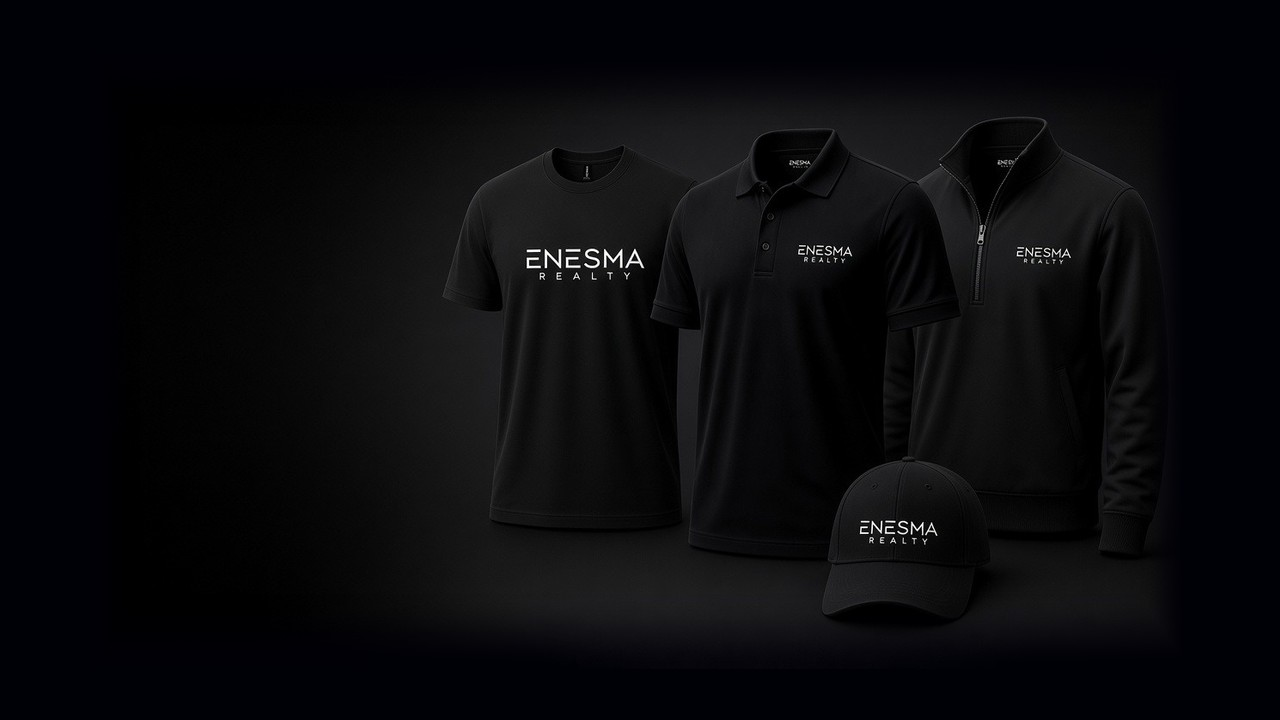
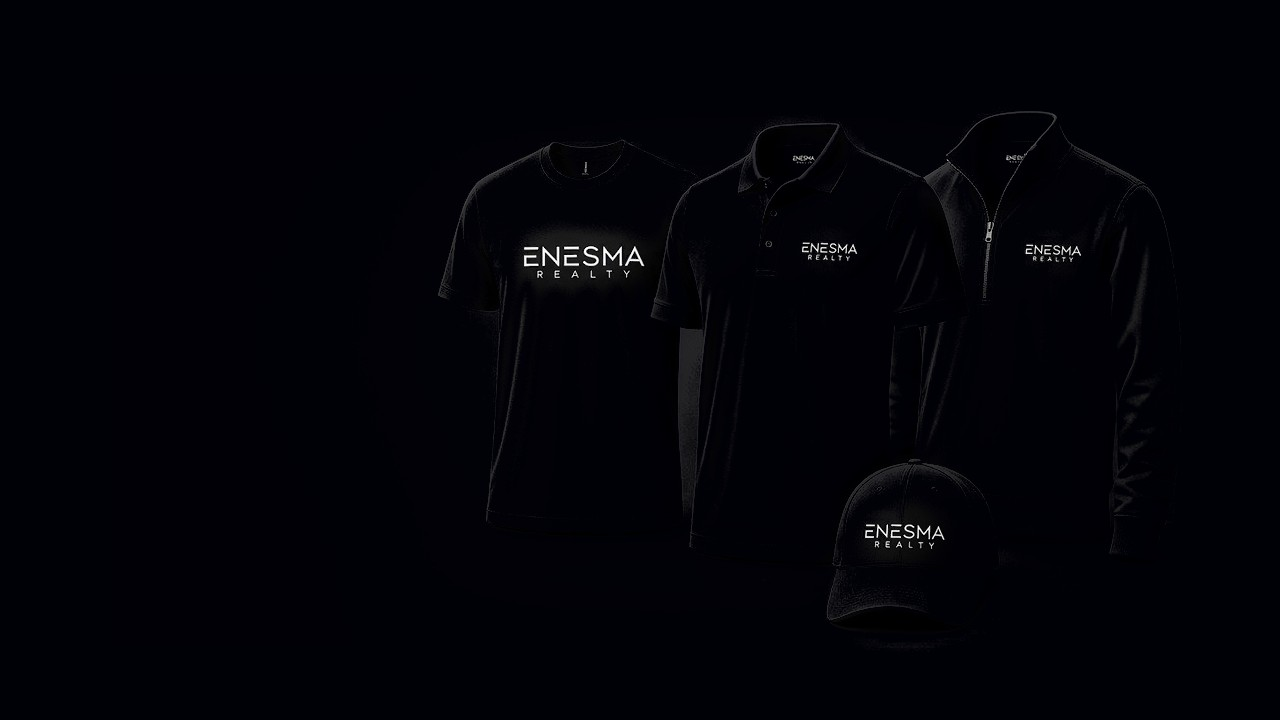
Blend the Gear and Cards photos into the black tiles (#22)
* Give the home tile photos room and blend their edges into the tile.

Inset each Gear, Signs, and Cards photo on black and fade only the dark edges, so the products stay whole and the photo no longer reads as a lighter box.

* Pull the Gear and Cards studio floor into the black tile.

The gray bands were the photo floor, not a CSS gap. The floor now fades to the tile color, and the signs stay inset so the For Sale panel is not on the edge.

---------

diff --git a/index.html b/index.html
@@ -8,7 +8,7 @@
 (function () {
   var path = location.pathname, marker = '/enesma-shop/', i = path.indexOf(marker);
   window.SHOP_BASE = i >= 0 ? path.slice(0, i + marker.length) : '/';
-  var v = '20261120t';
+  var v = '20261120u';
   var b = window.SHOP_BASE;
   document.write('<base href="' + b + '">');
   document.write('<link rel="stylesheet" href="' + b + 'css/shop.css?v=' + v + '">');
@@ -34,13 +34,13 @@
 <body data-page="home">
 <div id="app"></div>
 <script>
-document.write('<script src="' + window.SHOP_BASE + 'js/config.js?v=20261120t"><\/script>');
-document.write('<script src="' + window.SHOP_BASE + 'js/catalog.js?v=20261120t"><\/script>');
-document.write('<script src="' + window.SHOP_BASE + 'js/cart.js?v=20261120t"><\/script>');
-document.write('<script src="' + window.SHOP_BASE + 'js/api.js?v=20261120t"><\/script>');
-document.write('<script src="' + window.SHOP_BASE + 'js/ui.js?v=20261120t"><\/script>');
-document.write('<script src="' + window.SHOP_BASE + 'js/main.js?v=20261120t"><\/script>');
-if (window.__ESHOP_INTRO) document.write('<script src="' + window.SHOP_BASE + 'js/intro.js?v=20261120t-white"><\/script>');
+document.write('<script src="' + window.SHOP_BASE + 'js/config.js?v=20261120u"><\/script>');
+document.write('<script src="' + window.SHOP_BASE + 'js/catalog.js?v=20261120u"><\/script>');
+document.write('<script src="' + window.SHOP_BASE + 'js/cart.js?v=20261120u"><\/script>');
+document.write('<script src="' + window.SHOP_BASE + 'js/api.js?v=20261120u"><\/script>');
+document.write('<script src="' + window.SHOP_BASE + 'js/ui.js?v=20261120u"><\/script>');
+document.write('<script src="' + window.SHOP_BASE + 'js/main.js?v=20261120u"><\/script>');
+if (window.__ESHOP_INTRO) document.write('<script src="' + window.SHOP_BASE + 'js/intro.js?v=20261120u-white"><\/script>');
 </script>
 </body>
 </html>

diff --git a/cards/index.html b/cards/index.html
@@ -8,7 +8,7 @@
 (function () {
   var path = location.pathname, marker = '/enesma-shop/', i = path.indexOf(marker);
   window.SHOP_BASE = i >= 0 ? path.slice(0, i + marker.length) : '/';
-  var v = '20261120t';
+  var v = '20261120u';
   var b = window.SHOP_BASE;
   document.write('<base href="' + b + '">');
   document.write('<link rel="stylesheet" href="' + b + 'css/shop.css?v=' + v + '">');
@@ -23,12 +23,12 @@
 <body data-page="category" data-category="cards" data-title="Cards" data-lede="Business cards, printed with your photo and contact details.">
 <div id="app"></div>
 <script>
-document.write('<script src="' + window.SHOP_BASE + 'js/config.js?v=20261120t"><\/script>');
-document.write('<script src="' + window.SHOP_BASE + 'js/catalog.js?v=20261120t"><\/script>');
-document.write('<script src="' + window.SHOP_BASE + 'js/cart.js?v=20261120t"><\/script>');
-document.write('<script src="' + window.SHOP_BASE + 'js/api.js?v=20261120t"><\/script>');
-document.write('<script src="' + window.SHOP_BASE + 'js/ui.js?v=20261120t"><\/script>');
-document.write('<script src="' + window.SHOP_BASE + 'js/main.js?v=20261120t"><\/script>');
+document.write('<script src="' + window.SHOP_BASE + 'js/config.js?v=20261120u"><\/script>');
+document.write('<script src="' + window.SHOP_BASE + 'js/catalog.js?v=20261120u"><\/script>');
+document.write('<script src="' + window.SHOP_BASE + 'js/cart.js?v=20261120u"><\/script>');
+document.write('<script src="' + window.SHOP_BASE + 'js/api.js?v=20261120u"><\/script>');
+document.write('<script src="' + window.SHOP_BASE + 'js/ui.js?v=20261120u"><\/script>');
+document.write('<script src="' + window.SHOP_BASE + 'js/main.js?v=20261120u"><\/script>');
 </script>
 </body>
 </html>

diff --git a/signs/index.html b/signs/index.html
@@ -8,7 +8,7 @@
 (function () {
   var path = location.pathname, marker = '/enesma-shop/', i = path.indexOf(marker);
   window.SHOP_BASE = i >= 0 ? path.slice(0, i + marker.length) : '/';
-  var v = '20261120t';
+  var v = '20261120u';
   var b = window.SHOP_BASE;
   document.write('<base href="' + b + '">');
   document.write('<link rel="stylesheet" href="' + b + 'css/shop.css?v=' + v + '">');
@@ -23,12 +23,12 @@
 <body data-page="category" data-category="signs" data-title="Signs" data-lede="For sale signs and open house signs, in White or Black.">
 <div id="app"></div>
 <script>
-document.write('<script src="' + window.SHOP_BASE + 'js/config.js?v=20261120t"><\/script>');
-document.write('<script src="' + window.SHOP_BASE + 'js/catalog.js?v=20261120t"><\/script>');
-document.write('<script src="' + window.SHOP_BASE + 'js/cart.js?v=20261120t"><\/script>');
-document.write('<script src="' + window.SHOP_BASE + 'js/api.js?v=20261120t"><\/script>');
-document.write('<script src="' + window.SHOP_BASE + 'js/ui.js?v=20261120t"><\/script>');
-document.write('<script src="' + window.SHOP_BASE + 'js/main.js?v=20261120t"><\/script>');
+document.write('<script src="' + window.SHOP_BASE + 'js/config.js?v=20261120u"><\/script>');
+document.write('<script src="' + window.SHOP_BASE + 'js/catalog.js?v=20261120u"><\/script>');
+document.write('<script src="' + window.SHOP_BASE + 'js/cart.js?v=20261120u"><\/script>');
+document.write('<script src="' + window.SHOP_BASE + 'js/api.js?v=20261120u"><\/script>');
+document.write('<script src="' + window.SHOP_BASE + 'js/ui.js?v=20261120u"><\/script>');
+document.write('<script src="' + window.SHOP_BASE + 'js/main.js?v=20261120u"><\/script>');
 </script>
 </body>
 </html>

diff --git a/gear/index.html b/gear/index.html
@@ -8,7 +8,7 @@
 (function () {
   var path = location.pathname, marker = '/enesma-shop/', i = path.indexOf(marker);
   window.SHOP_BASE = i >= 0 ? path.slice(0, i + marker.length) : '/';
-  var v = '20261120t';
+  var v = '20261120u';
   var b = window.SHOP_BASE;
   document.write('<base href="' + b + '">');
   document.write('<link rel="stylesheet" href="' + b + 'css/shop.css?v=' + v + '">');
@@ -25,12 +25,12 @@ document.write('<script type="importmap">'+JSON.stringify({imports:{"three":wind
 <body data-page="closet">
 <div id="app"></div>
 <script>
-document.write('<script src="' + window.SHOP_BASE + 'js/config.js?v=20261120t"><\/script>');
-document.write('<script src="' + window.SHOP_BASE + 'js/catalog.js?v=20261120t"><\/script>');
-document.write('<script src="' + window.SHOP_BASE + 'js/cart.js?v=20261120t"><\/script>');
-document.write('<script src="' + window.SHOP_BASE + 'js/api.js?v=20261120t"><\/script>');
-document.write('<script src="' + window.SHOP_BASE + 'js/ui.js?v=20261120t"><\/script>');
-document.write('<script src="' + window.SHOP_BASE + 'js/main.js?v=20261120t"><\/script>');
+document.write('<script src="' + window.SHOP_BASE + 'js/config.js?v=20261120u"><\/script>');
+document.write('<script src="' + window.SHOP_BASE + 'js/catalog.js?v=20261120u"><\/script>');
+document.write('<script src="' + window.SHOP_BASE + 'js/cart.js?v=20261120u"><\/script>');
+document.write('<script src="' + window.SHOP_BASE + 'js/api.js?v=20261120u"><\/script>');
+document.write('<script src="' + window.SHOP_BASE + 'js/ui.js?v=20261120u"><\/script>');
+document.write('<script src="' + window.SHOP_BASE + 'js/main.js?v=20261120u"><\/script>');
 </script>
 </body>
 </html>

diff --git a/signs/for-sale-aluminum/index.html b/signs/for-sale-aluminum/index.html
@@ -8,7 +8,7 @@
 (function () {
   var path = location.pathname, marker = '/enesma-shop/', i = path.indexOf(marker);
   window.SHOP_BASE = i >= 0 ? path.slice(0, i + marker.length) : '/';
-  var v = '20261120t';
+  var v = '20261120u';
   var b = window.SHOP_BASE;
   document.write('<base href="' + b + '">');
   document.write('<link rel="stylesheet" href="' + b + 'css/shop.css?v=' + v + '">');
@@ -23,12 +23,12 @@
 <body data-page="product" data-sku="for-sale-aluminum">
 <div id="app"></div>
 <script>
-document.write('<script src="' + window.SHOP_BASE + 'js/config.js?v=20261120t"><\/script>');
-document.write('<script src="' + window.SHOP_BASE + 'js/catalog.js?v=20261120t"><\/script>');
-document.write('<script src="' + window.SHOP_BASE + 'js/cart.js?v=20261120t"><\/script>');
-document.write('<script src="' + window.SHOP_BASE + 'js/api.js?v=20261120t"><\/script>');
-document.write('<script src="' + window.SHOP_BASE + 'js/ui.js?v=20261120t"><\/script>');
-document.write('<script src="' + window.SHOP_BASE + 'js/main.js?v=20261120t"><\/script>');
+document.write('<script src="' + window.SHOP_BASE + 'js/config.js?v=20261120u"><\/script>');
+document.write('<script src="' + window.SHOP_BASE + 'js/catalog.js?v=20261120u"><\/script>');
+document.write('<script src="' + window.SHOP_BASE + 'js/cart.js?v=20261120u"><\/script>');
+document.write('<script src="' + window.SHOP_BASE + 'js/api.js?v=20261120u"><\/script>');
+document.write('<script src="' + window.SHOP_BASE + 'js/ui.js?v=20261120u"><\/script>');
+document.write('<script src="' + window.SHOP_BASE + 'js/main.js?v=20261120u"><\/script>');
 </script>
 </body>
 </html>

diff --git a/signs/for-sale-plastic/index.html b/signs/for-sale-plastic/index.html
@@ -8,7 +8,7 @@
 (function () {
   var path = location.pathname, marker = '/enesma-shop/', i = path.indexOf(marker);
   window.SHOP_BASE = i >= 0 ? path.slice(0, i + marker.length) : '/';
-  var v = '20261120t';
+  var v = '20261120u';
   var b = window.SHOP_BASE;
   document.write('<base href="' + b + '">');
   document.write('<link rel="stylesheet" href="' + b + 'css/shop.css?v=' + v + '">');
@@ -23,12 +23,12 @@
 <body data-page="product" data-sku="for-sale-plastic">
 <div id="app"></div>
 <script>
-document.write('<script src="' + window.SHOP_BASE + 'js/config.js?v=20261120t"><\/script>');
-document.write('<script src="' + window.SHOP_BASE + 'js/catalog.js?v=20261120t"><\/script>');
-document.write('<script src="' + window.SHOP_BASE + 'js/cart.js?v=20261120t"><\/script>');
-document.write('<script src="' + window.SHOP_BASE + 'js/api.js?v=20261120t"><\/script>');
-document.write('<script src="' + window.SHOP_BASE + 'js/ui.js?v=20261120t"><\/script>');
-document.write('<script src="' + window.SHOP_BASE + 'js/main.js?v=20261120t"><\/script>');
+document.write('<script src="' + window.SHOP_BASE + 'js/config.js?v=20261120u"><\/script>');
+document.write('<script src="' + window.SHOP_BASE + 'js/catalog.js?v=20261120u"><\/script>');
+document.write('<script src="' + window.SHOP_BASE + 'js/cart.js?v=20261120u"><\/script>');
+document.write('<script src="' + window.SHOP_BASE + 'js/api.js?v=20261120u"><\/script>');
+document.write('<script src="' + window.SHOP_BASE + 'js/ui.js?v=20261120u"><\/script>');
+document.write('<script src="' + window.SHOP_BASE + 'js/main.js?v=20261120u"><\/script>');
 </script>
 </body>
 </html>

diff --git a/gear/quarter-zip/index.html b/gear/quarter-zip/index.html
@@ -8,7 +8,7 @@
 (function () {
   var path = location.pathname, marker = '/enesma-shop/', i = path.indexOf(marker);
   window.SHOP_BASE = i >= 0 ? path.slice(0, i + marker.length) : '/';
-  var v = '20261120t';
+  var v = '20261120u';
   var b = window.SHOP_BASE;
   document.write('<base href="' + b + '">');
   document.write('<link rel="stylesheet" href="' + b + 'css/shop.css?v=' + v + '">');
@@ -23,12 +23,12 @@
 <body data-page="product" data-sku="quarter-zip">
 <div id="app"></div>
 <script>
-document.write('<script src="' + window.SHOP_BASE + 'js/config.js?v=20261120t"><\/script>');
-document.write('<script src="' + window.SHOP_BASE + 'js/catalog.js?v=20261120t"><\/script>');
-document.write('<script src="' + window.SHOP_BASE + 'js/cart.js?v=20261120t"><\/script>');
-document.write('<script src="' + window.SHOP_BASE + 'js/api.js?v=20261120t"><\/script>');
-document.write('<script src="' + window.SHOP_BASE + 'js/ui.js?v=20261120t"><\/script>');
-document.write('<script src="' + window.SHOP_BASE + 'js/main.js?v=20261120t"><\/script>');
+document.write('<script src="' + window.SHOP_BASE + 'js/config.js?v=20261120u"><\/script>');
+document.write('<script src="' + window.SHOP_BASE + 'js/catalog.js?v=20261120u"><\/script>');
+document.write('<script src="' + window.SHOP_BASE + 'js/cart.js?v=20261120u"><\/script>');
+document.write('<script src="' + window.SHOP_BASE + 'js/api.js?v=20261120u"><\/script>');
+document.write('<script src="' + window.SHOP_BASE + 'js/ui.js?v=20261120u"><\/script>');
+document.write('<script src="' + window.SHOP_BASE + 'js/main.js?v=20261120u"><\/script>');
 </script>
 </body>
 </html>

diff --git a/cards/cards-1000/index.html b/cards/cards-1000/index.html
@@ -8,7 +8,7 @@
 (function () {
   var path = location.pathname, marker = '/enesma-shop/', i = path.indexOf(marker);
   window.SHOP_BASE = i >= 0 ? path.slice(0, i + marker.length) : '/';
-  var v = '20261120t';
+  var v = '20261120u';
   var b = window.SHOP_BASE;
   document.write('<base href="' + b + '">');
   document.write('<link rel="stylesheet" href="' + b + 'css/shop.css?v=' + v + '">');
@@ -23,12 +23,12 @@
 <body data-page="product" data-sku="cards-1000">
 <div id="app"></div>
 <script>
-document.write('<script src="' + window.SHOP_BASE + 'js/config.js?v=20261120t"><\/script>');
-document.write('<script src="' + window.SHOP_BASE + 'js/catalog.js?v=20261120t"><\/script>');
-document.write('<script src="' + window.SHOP_BASE + 'js/cart.js?v=20261120t"><\/script>');
-document.write('<script src="' + window.SHOP_BASE + 'js/api.js?v=20261120t"><\/script>');
-document.write('<script src="' + window.SHOP_BASE + 'js/ui.js?v=20261120t"><\/script>');
-document.write('<script src="' + window.SHOP_BASE + 'js/main.js?v=20261120t"><\/script>');
+document.write('<script src="' + window.SHOP_BASE + 'js/config.js?v=20261120u"><\/script>');
+document.write('<script src="' + window.SHOP_BASE + 'js/catalog.js?v=20261120u"><\/script>');
+document.write('<script src="' + window.SHOP_BASE + 'js/cart.js?v=20261120u"><\/script>');
+document.write('<script src="' + window.SHOP_BASE + 'js/api.js?v=20261120u"><\/script>');
+document.write('<script src="' + window.SHOP_BASE + 'js/ui.js?v=20261120u"><\/script>');
+document.write('<script src="' + window.SHOP_BASE + 'js/main.js?v=20261120u"><\/script>');
 </script>
 </body>
 </html>

diff --git a/signs/open-house/index.html b/signs/open-house/index.html
@@ -8,7 +8,7 @@
 (function () {
   var path = location.pathname, marker = '/enesma-shop/', i = path.indexOf(marker);
   window.SHOP_BASE = i >= 0 ? path.slice(0, i + marker.length) : '/';
-  var v = '20261120t';
+  var v = '20261120u';
   var b = window.SHOP_BASE;
   document.write('<base href="' + b + '">');
   document.write('<link rel="stylesheet" href="' + b + 'css/shop.css?v=' + v + '">');
@@ -23,12 +23,12 @@
 <body data-page="product" data-sku="open-house">
 <div id="app"></div>
 <script>
-document.write('<script src="' + window.SHOP_BASE + 'js/config.js?v=20261120t"><\/script>');
-document.write('<script src="' + window.SHOP_BASE + 'js/catalog.js?v=20261120t"><\/script>');
-document.write('<script src="' + window.SHOP_BASE + 'js/cart.js?v=20261120t"><\/script>');
-document.write('<script src="' + window.SHOP_BASE + 'js/api.js?v=20261120t"><\/script>');
-document.write('<script src="' + window.SHOP_BASE + 'js/ui.js?v=20261120t"><\/script>');
-document.write('<script src="' + window.SHOP_BASE + 'js/main.js?v=20261120t"><\/script>');
+document.write('<script src="' + window.SHOP_BASE + 'js/config.js?v=20261120u"><\/script>');
+document.write('<script src="' + window.SHOP_BASE + 'js/catalog.js?v=20261120u"><\/script>');
+document.write('<script src="' + window.SHOP_BASE + 'js/cart.js?v=20261120u"><\/script>');
+document.write('<script src="' + window.SHOP_BASE + 'js/api.js?v=20261120u"><\/script>');
+document.write('<script src="' + window.SHOP_BASE + 'js/ui.js?v=20261120u"><\/script>');
+document.write('<script src="' + window.SHOP_BASE + 'js/main.js?v=20261120u"><\/script>');
 </script>
 </body>
 </html>

diff --git a/gear/t-shirt/index.html b/gear/t-shirt/index.html
@@ -8,7 +8,7 @@
 (function () {
   var path = location.pathname, marker = '/enesma-shop/', i = path.indexOf(marker);
   window.SHOP_BASE = i >= 0 ? path.slice(0, i + marker.length) : '/';
-  var v = '20261120t';
+  var v = '20261120u';
   var b = window.SHOP_BASE;
   document.write('<base href="' + b + '">');
   document.write('<link rel="stylesheet" href="' + b + 'css/shop.css?v=' + v + '">');
@@ -23,12 +23,12 @@
 <body data-page="product" data-sku="t-shirt">
 <div id="app"></div>
 <script>
-document.write('<script src="' + window.SHOP_BASE + 'js/config.js?v=20261120t"><\/script>');
-document.write('<script src="' + window.SHOP_BASE + 'js/catalog.js?v=20261120t"><\/script>');
-document.write('<script src="' + window.SHOP_BASE + 'js/cart.js?v=20261120t"><\/script>');
-document.write('<script src="' + window.SHOP_BASE + 'js/api.js?v=20261120t"><\/script>');
-document.write('<script src="' + window.SHOP_BASE + 'js/ui.js?v=20261120t"><\/script>');
-document.write('<script src="' + window.SHOP_BASE + 'js/main.js?v=20261120t"><\/script>');
+document.write('<script src="' + window.SHOP_BASE + 'js/config.js?v=20261120u"><\/script>');
+document.write('<script src="' + window.SHOP_BASE + 'js/catalog.js?v=20261120u"><\/script>');
+document.write('<script src="' + window.SHOP_BASE + 'js/cart.js?v=20261120u"><\/script>');
+document.write('<script src="' + window.SHOP_BASE + 'js/api.js?v=20261120u"><\/script>');
+document.write('<script src="' + window.SHOP_BASE + 'js/ui.js?v=20261120u"><\/script>');
+document.write('<script src="' + window.SHOP_BASE + 'js/main.js?v=20261120u"><\/script>');
 </script>
 </body>
 </html>

diff --git a/signs/a-frame/index.html b/signs/a-frame/index.html
@@ -8,7 +8,7 @@
 (function () {
   var path = location.pathname, marker = '/enesma-shop/', i = path.indexOf(marker);
   window.SHOP_BASE = i >= 0 ? path.slice(0, i + marker.length) : '/';
-  var v = '20261120t';
+  var v = '20261120u';
   var b = window.SHOP_BASE;
   document.write('<base href="' + b + '">');
   document.write('<link rel="stylesheet" href="' + b + 'css/shop.css?v=' + v + '">');
@@ -23,12 +23,12 @@
 <body data-page="product" data-sku="a-frame">
 <div id="app"></div>
 <script>
-document.write('<script src="' + window.SHOP_BASE + 'js/config.js?v=20261120t"><\/script>');
-document.write('<script src="' + window.SHOP_BASE + 'js/catalog.js?v=20261120t"><\/script>');
-document.write('<script src="' + window.SHOP_BASE + 'js/cart.js?v=20261120t"><\/script>');
-document.write('<script src="' + window.SHOP_BASE + 'js/api.js?v=20261120t"><\/script>');
-document.write('<script src="' + window.SHOP_BASE + 'js/ui.js?v=20261120t"><\/script>');
-document.write('<script src="' + window.SHOP_BASE + 'js/main.js?v=20261120t"><\/script>');
+document.write('<script src="' + window.SHOP_BASE + 'js/config.js?v=20261120u"><\/script>');
+document.write('<script src="' + window.SHOP_BASE + 'js/catalog.js?v=20261120u"><\/script>');
+document.write('<script src="' + window.SHOP_BASE + 'js/cart.js?v=20261120u"><\/script>');
+document.write('<script src="' + window.SHOP_BASE + 'js/api.js?v=20261120u"><\/script>');
+document.write('<script src="' + window.SHOP_BASE + 'js/ui.js?v=20261120u"><\/script>');
+document.write('<script src="' + window.SHOP_BASE + 'js/main.js?v=20261120u"><\/script>');
 </script>
 </body>
 </html>

diff --git a/gear/polo/index.html b/gear/polo/index.html
@@ -8,7 +8,7 @@
 (function () {
   var path = location.pathname, marker = '/enesma-shop/', i = path.indexOf(marker);
   window.SHOP_BASE = i >= 0 ? path.slice(0, i + marker.length) : '/';
-  var v = '20261120t';
+  var v = '20261120u';
   var b = window.SHOP_BASE;
   document.write('<base href="' + b + '">');
   document.write('<link rel="stylesheet" href="' + b + 'css/shop.css?v=' + v + '">');
@@ -23,12 +23,12 @@
 <body data-page="product" data-sku="polo">
 <div id="app"></div>
 <script>
-document.write('<script src="' + window.SHOP_BASE + 'js/config.js?v=20261120t"><\/script>');
-document.write('<script src="' + window.SHOP_BASE + 'js/catalog.js?v=20261120t"><\/script>');
-document.write('<script src="' + window.SHOP_BASE + 'js/cart.js?v=20261120t"><\/script>');
-document.write('<script src="' + window.SHOP_BASE + 'js/api.js?v=20261120t"><\/script>');
-document.write('<script src="' + window.SHOP_BASE + 'js/ui.js?v=20261120t"><\/script>');
-document.write('<script src="' + window.SHOP_BASE + 'js/main.js?v=20261120t"><\/script>');
+document.write('<script src="' + window.SHOP_BASE + 'js/config.js?v=20261120u"><\/script>');
+document.write('<script src="' + window.SHOP_BASE + 'js/catalog.js?v=20261120u"><\/script>');
+document.write('<script src="' + window.SHOP_BASE + 'js/cart.js?v=20261120u"><\/script>');
+document.write('<script src="' + window.SHOP_BASE + 'js/api.js?v=20261120u"><\/script>');
+document.write('<script src="' + window.SHOP_BASE + 'js/ui.js?v=20261120u"><\/script>');
+document.write('<script src="' + window.SHOP_BASE + 'js/main.js?v=20261120u"><\/script>');
 </script>
 </body>
 </html>
